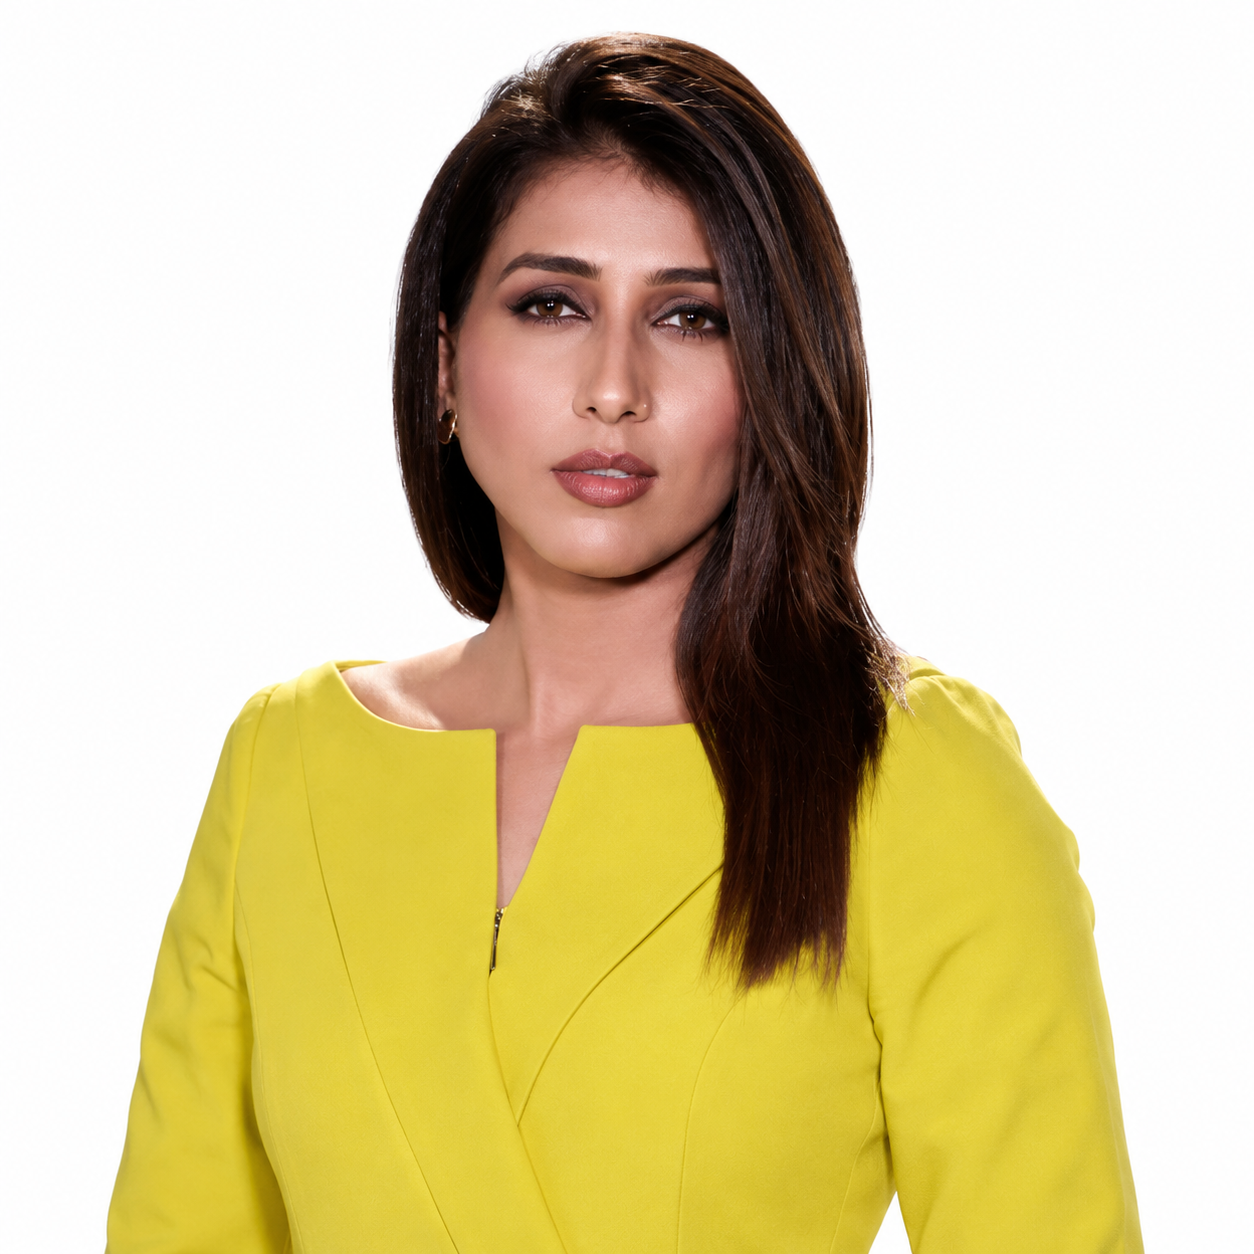
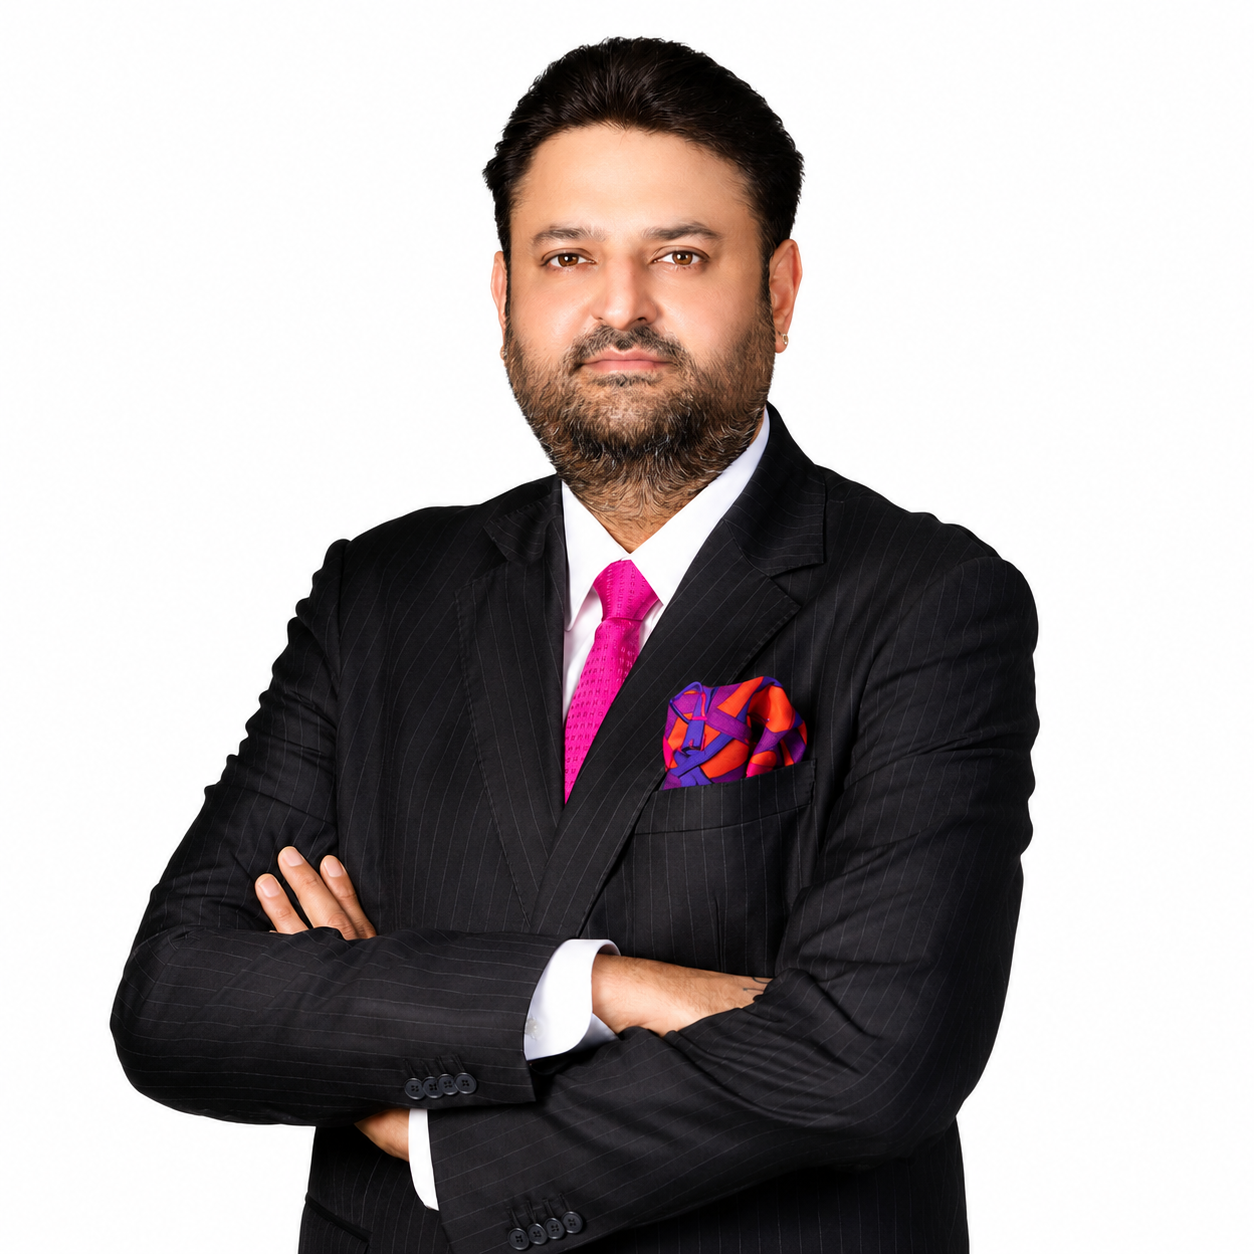
Done

diff --git a/src/components/ContactView.tsx b/src/components/ContactView.tsx
@@ -12,7 +12,6 @@ import { trackFormSubmission } from '../lib/analytics';
 export default function ContactView() {
   // FAQ states
   const [expandedFaqIdx, setExpandedFaqIdx] = useState<number | null>(0);
-  const [iframeLoadCount, setIframeLoadCount] = useState(0);
 
   const faqs = [
     {
@@ -133,35 +132,39 @@ export default function ContactView() {
             </a>
           </div>
 
-          {/* Secure embedded Google Form customized to blend perfectly */}
+          {/* Clean website-styled contact CTA card */}
           <div 
-            className="relative w-full bg-slate-50 border border-slate-200 h-[740px] sm:h-[840px] shadow-sm overflow-hidden"
+            className="w-full bg-slate-50 border border-slate-200 py-16 px-6 text-center space-y-6 flex flex-col items-center justify-center relative overflow-hidden"
             style={{ borderRadius: '15px' }}
           >
-            {/* Elegant premium loading background */}
-            <div className="absolute inset-0 flex flex-col items-center justify-center bg-slate-50 gap-4 text-xs text-slate-600">
-              <div className="w-8 h-8 rounded-full border-2 border-slate-200 border-t-[#1d4ed8] animate-spin" />
-              <span className="font-mono tracking-widest text-[10px] text-[#1d4ed8]/80 uppercase">Establishing Secure Connection...</span>
+            {/* Decorative background elements */}
+            <div className="absolute top-0 right-0 w-32 h-32 bg-blue-50 rounded-full blur-3xl pointer-events-none" />
+            <div className="absolute bottom-0 left-0 w-32 h-32 bg-red-50 rounded-full blur-3xl pointer-events-none" />
+            
+            <div className="relative space-y-4 max-w-lg mx-auto">
+              <div className="w-12 h-12 bg-[#1d4ed8]/5 border border-[#1d4ed8]/10 rounded-full flex items-center justify-center mx-auto text-[#1d4ed8]">
+                <ExternalLink className="w-5 h-5" />
+              </div>
+              
+              <h4 className="font-sans font-extrabold text-xl text-slate-900 tracking-tight">
+                Submit Your Project Inquiry
+              </h4>
+              <p className="font-sans text-xs sm:text-sm text-slate-600 leading-relaxed">
+                Click the button below to open our secure consultation form in a new tab.
+              </p>
+              
+              <div className="pt-2">
+                <a
+                  href="https://docs.google.com/forms/d/e/1FAIpQLSfPnoUEiAsg5aaFFP7J0BkSpcRD-dDV3Eg4Ur3kMWIuGk1jdw/viewform?usp=header"
+                  target="_blank"
+                  rel="noopener noreferrer"
+                  onClick={() => trackFormSubmission('direct_form_button_click')}
+                  className="inline-flex items-center gap-2 bg-[#dc2626] hover:bg-[#b91c1c] text-white px-8 py-3.5 rounded font-mono text-[10px] font-bold uppercase tracking-widest transition-all duration-300 shadow-[0_4px_15px_rgba(220,38,38,0.2)] hover:shadow-[0_6px_20px_rgba(220,38,38,0.3)] cursor-pointer hover:-translate-y-0.5 active:translate-y-0"
+                >
+                  Open Direct Form <ExternalLink className="w-3.5 h-3.5" />
+                </a>
+              </div>
             </div>
-
-            {/* Shift and wrap iframe to hide the header of the Google Form, inverted color scheme via custom CSS */}
-            <iframe 
-              src="https://docs.google.com/forms/d/e/1FAIpQLSfPnoUEiAsg5aaFFP7J0BkSpcRD-dDV3Eg4Ur3kMWIuGk1jdw/viewform?embedded=true"
-              className="absolute left-0 top-[-135px] w-full h-[calc(100%+145px)] bg-transparent border-none z-10"
-              title="Request a Consultation Secure Form"
-              referrerPolicy="no-referrer"
-              onLoad={() => {
-                setIframeLoadCount(prev => {
-                  const nextCount = prev + 1;
-                  if (nextCount > 1) {
-                    trackFormSubmission('embedded_iframe_submit');
-                  }
-                  return nextCount;
-                });
-              }}
-            >
-              Loading…
-            </iframe>
           </div>
         </div>
       </section>

diff --git a/src/data.ts b/src/data.ts
@@ -12,6 +12,11 @@ import periwinkleLogo from './assets/images/periwinkle_logo_1781017276084.png';
 import assuredHospitalityThumbnail from './assets/images/assured_hospitality_thumbnail_1781020648908.png';
 import nyshaaRealtyThumbnail from './assets/images/nyshaa_realty_thumbnail_1781020885688.png';
 import mohitKambojThumbnail from './assets/images/mohit_kamboj_thumbnail_1781021847623.png';
+import mohitKambojPortrait from './assets/images/regenerated_image_1781028443131.png';
+import tusharKaushikPortrait from './assets/images/tushar_kaushik_portrait_1781073129545.png';
+import ranjnaSinghRathorePortrait from './assets/images/ranjna_singh_rathore_portrait_1781073269809.png';
+import romitaTiwariPortrait from './assets/images/romita_tiwari_portrait_1781073383788.png';
+import ramveerBidhuriPortrait from './assets/images/ramveer_bidhuri_portrait_1781073503340.png';
 
 export const HERO_IMAGE = "https://lh3.googleusercontent.com/aida-public/AB6AXuCWJLef5fVy7vHZ1E-eIdQ6UwhZkeN3-gLFg4J0IuH31XvANDjVvwLD8kIdBYuqF6vzB9lZ8wQ4ikKkMDugpdwk7usGvM_Jo4eUNdO1SswzBh8Bf0eZ3TczCEUX39273s3QDMwHoFhWoxWQ_sK5ZRXeJ8G_pkVJK_3bRJMAM9HxbRGaRsxvR-enHoBgBBy_M4_RHlxAMJDaStdAhc6QlXRU-E5T7QxpGxSNTycDGwNMHTZS_wvL784yP3wvWgkjL-UpR7tWQZrE9A";
 
@@ -344,7 +349,7 @@ export const PUBLIC_FIGURES: PublicFigure[] = [
       'Brand Positioning',
       'Digital Visibility'
     ],
-    img: ''
+    img: mohitKambojPortrait
   },
   {
     id: 'tushar-kaushik',
@@ -356,7 +361,7 @@ export const PUBLIC_FIGURES: PublicFigure[] = [
       'Video Production',
       'Digital Branding'
     ],
-    img: ''
+    img: tusharKaushikPortrait
   },
   {
     id: 'ranjna-singh-rathore',
@@ -368,7 +373,7 @@ export const PUBLIC_FIGURES: PublicFigure[] = [
       'Digital Branding',
       'Audience Growth'
     ],
-    img: ''
+    img: ranjnaSinghRathorePortrait
   },
   {
     id: 'romita-tiwari',
@@ -380,7 +385,7 @@ export const PUBLIC_FIGURES: PublicFigure[] = [
       'Digital Visibility',
       'Social Media Growth'
     ],
-    img: ''
+    img: romitaTiwariPortrait
   },
   {
     id: 'ramveer-singh-bidhuri',
@@ -392,6 +397,6 @@ export const PUBLIC_FIGURES: PublicFigure[] = [
       'Digital Communication',
       'Social Media Strategy'
     ],
-    img: ''
+    img: ramveerBidhuriPortrait
   }
 ];

diff --git a/src/components/PortfolioView.tsx b/src/components/PortfolioView.tsx
@@ -3,7 +3,7 @@
  * SPDX-License-Identifier: Apache-2.0
  */
 
-import { useState, useEffect } from 'react';
+import { useState } from 'react';
 import { ArrowRight, ChevronLeft, ChevronRight, Check, User } from 'lucide-react';
 import { motion, AnimatePresence } from 'motion/react';
 import { PROJECTS, PUBLIC_FIGURES } from '../data';
@@ -16,16 +16,6 @@ interface PortfolioViewProps {
 
 export default function PortfolioView({ onSelectProject, onRequestQuote }: PortfolioViewProps) {
   const [currentSlide, setCurrentSlide] = useState(0);
-  const [isPaused, setIsPaused] = useState(false);
-
-  // Auto-slide effect for the Public Figures Carousel
-  useEffect(() => {
-    if (isPaused) return;
-    const interval = setInterval(() => {
-      setCurrentSlide((prev) => (prev + 1) % PUBLIC_FIGURES.length);
-    }, 4000);
-    return () => clearInterval(interval);
-  }, [isPaused]);
 
   const handlePrevSlide = () => {
     setCurrentSlide((prev) => (prev - 1 + PUBLIC_FIGURES.length) % PUBLIC_FIGURES.length);
@@ -42,8 +32,6 @@ export default function PortfolioView({ onSelectProject, onRequestQuote }: Portf
       <section
         className="space-y-10"
         id="portfolio-public-figures"
-        onMouseEnter={() => setIsPaused(true)}
-        onMouseLeave={() => setIsPaused(false)}
       >
         {/* Section Title */}
         <div className="text-left border-l-4 border-[#1d4ed8] pl-4 space-y-2">